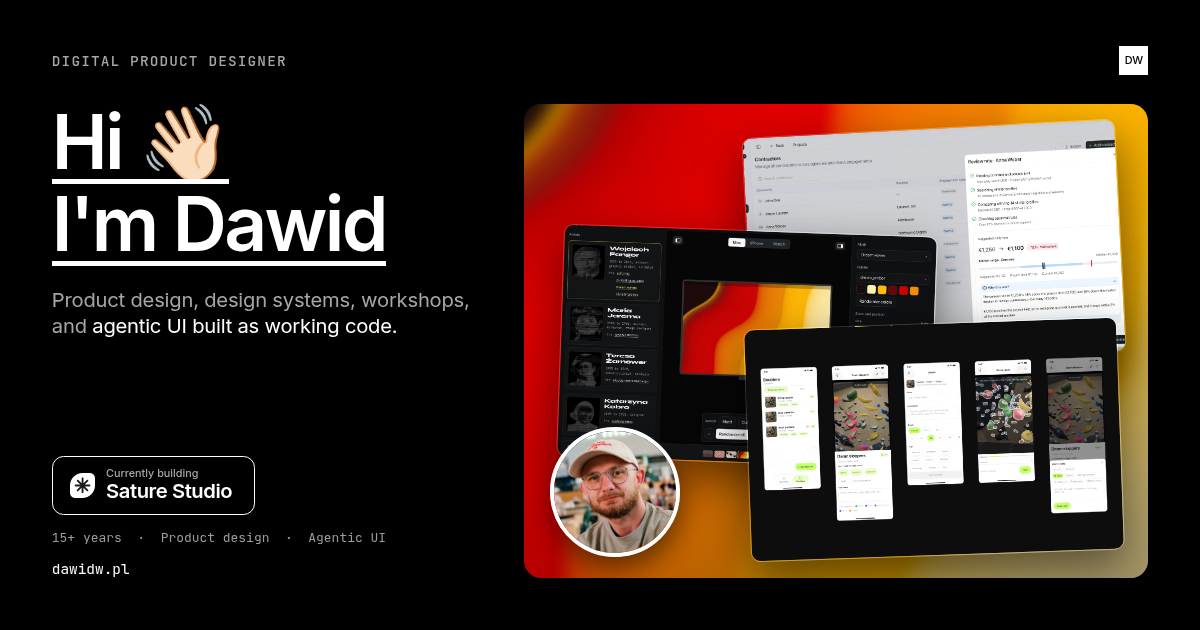
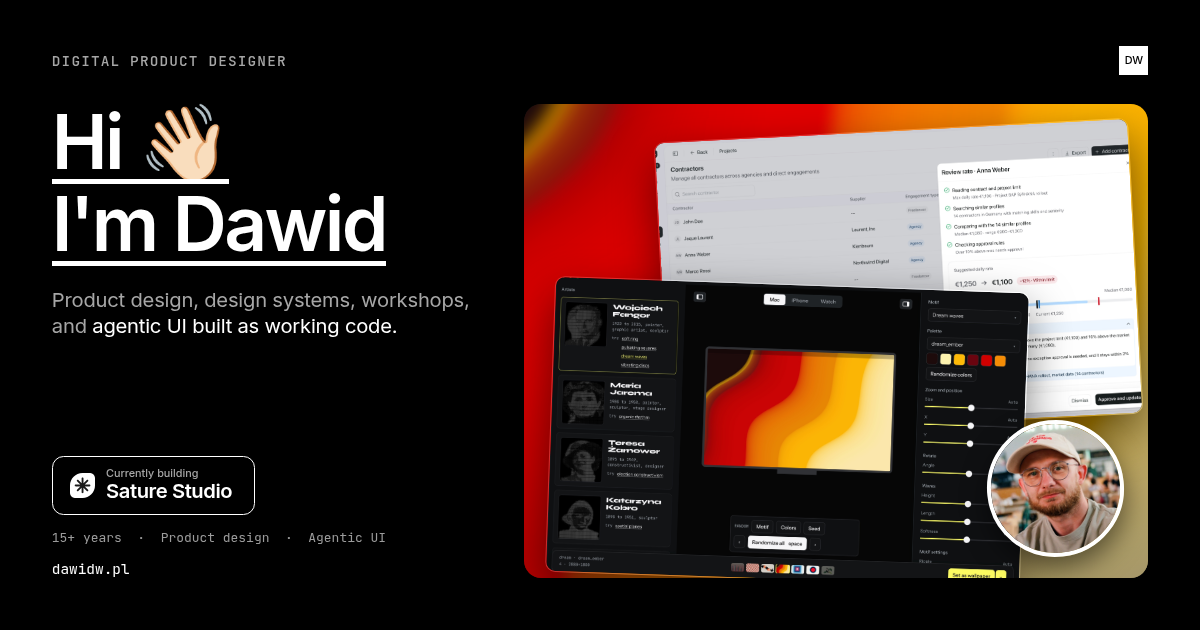
Share image: drop the Grippy screens, Agentic UI and Study of Space only

Changed region(s): [[0.4317, 0.181, 0.9558, 0.9349]]

diff --git a/index.html b/index.html
@@ -15,7 +15,7 @@
   <meta property="og:image:type" content="image/png">
   <meta property="og:image:width" content="1200">
   <meta property="og:image:height" content="630">
-  <meta property="og:image:alt" content="Hi, I'm Dawid. Digital Product Designer: product design, design systems, workshops, and agentic UI built as working code. With screens of Agentic UI experiments, Study of Space and Grippy, and a portrait of Dawid.">
+  <meta property="og:image:alt" content="Hi, I'm Dawid. Digital Product Designer: product design, design systems, workshops, and agentic UI built as working code. With screens of Agentic UI experiments and Study of Space, and a portrait of Dawid.">
   <meta name="twitter:card" content="summary_large_image">
   <meta name="twitter:site" content="@dawidwu">
   <meta name="twitter:creator" content="@dawidwu">
